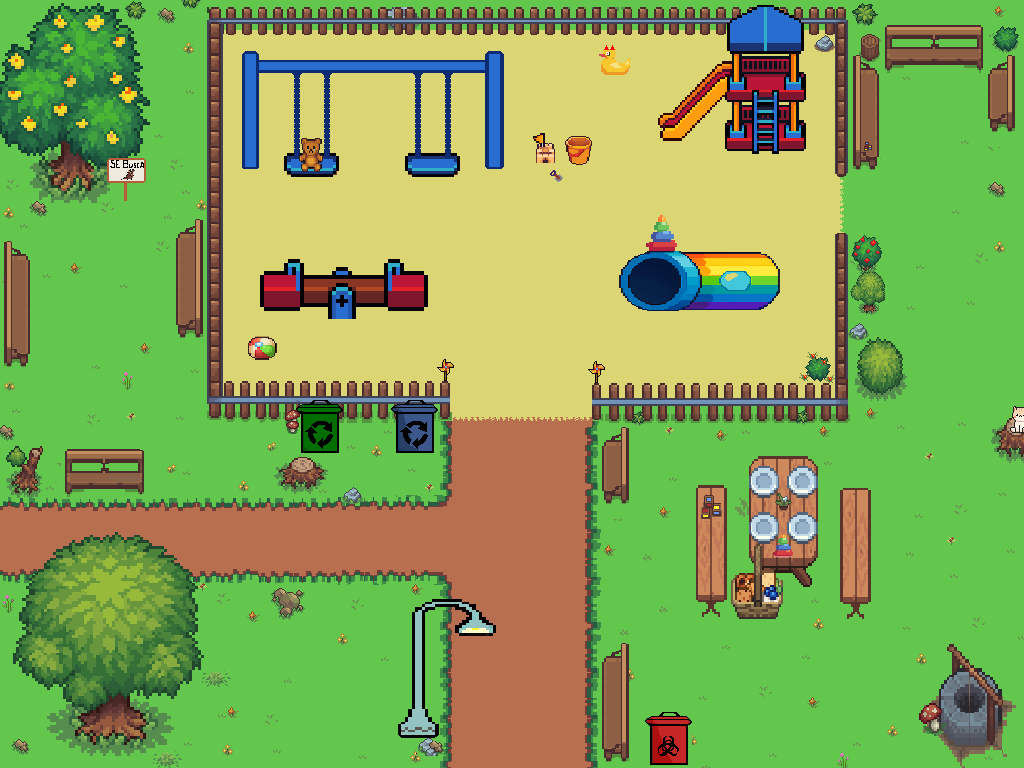
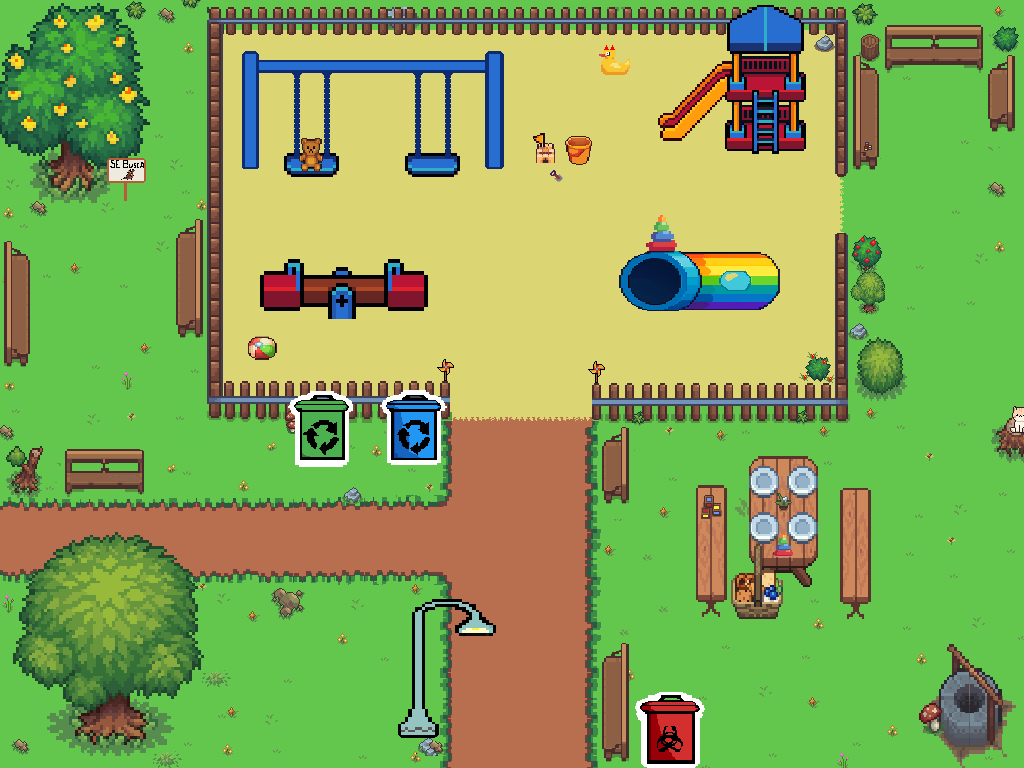
Puse aura a los botes, y los implemente en los fondos de todos los niveles

Changed region(s): [[0.25, 0.5, 0.3438, 0.6562], [0.375, 0.5, 0.4375, 0.625], [0.625, 0.9062, 0.6875, 1.0]]

diff --git a/nivel_2.py b/nivel_2.py
@@ -311,6 +311,8 @@ def run_level2(idioma_actual, volumen_actual):
     capa_lampara15 = pygame.image.load(os.path.join(BASE_DIR, "assets_PI", "diseyo_nivel", "nivel 2", "lampara", "lampara15.png")).convert_alpha()
     capa_lampara16 = pygame.image.load(os.path.join(BASE_DIR, "assets_PI", "diseyo_nivel", "nivel 2", "lampara", "lampara16.png")).convert_alpha()
 
+    
+
     #columpio
     capa_colum1 = pygame.image.load(os.path.join(BASE_DIR, "assets_PI", "diseyo_nivel", "nivel 2", "columpio", "colu1.png")).convert_alpha()
     capa_colum2 = pygame.image.load(os.path.join(BASE_DIR, "assets_PI", "diseyo_nivel", "nivel 2", "columpio", "colu2.png")).convert_alpha()
@@ -654,7 +656,7 @@ def run_level2(idioma_actual, volumen_actual):
         pygame.Rect(640, 252, 111, 34), pygame.Rect(271, 271, 154, 15), pygame.Rect(246, 137, 9, 19), pygame.Rect(489, 138, 11, 17), pygame.Rect(710, 36, 90, 47),
 
         #bote peligro
-        pygame.Rect(648, 710, 30, 36),
+        pygame.Rect(648, 690, 30, 36),
 
         #bote inorganico
         pygame.Rect(404, 410, 21, 9),

diff --git a/nivel_1.py b/nivel_1.py
@@ -588,7 +588,7 @@ def run_level1(idioma_actual, volumen_actual):
     vida_actual = vida_max
 
     # Tiempo - SISTEMA MEJORADO CON PAUSA
-    tiempo_total = 60
+    tiempo_total = 400
     inicio_tiempo = pygame.time.get_ticks()
     tiempo_pausa_acumulado = 0
     tiempo_ultima_pausa = 0
